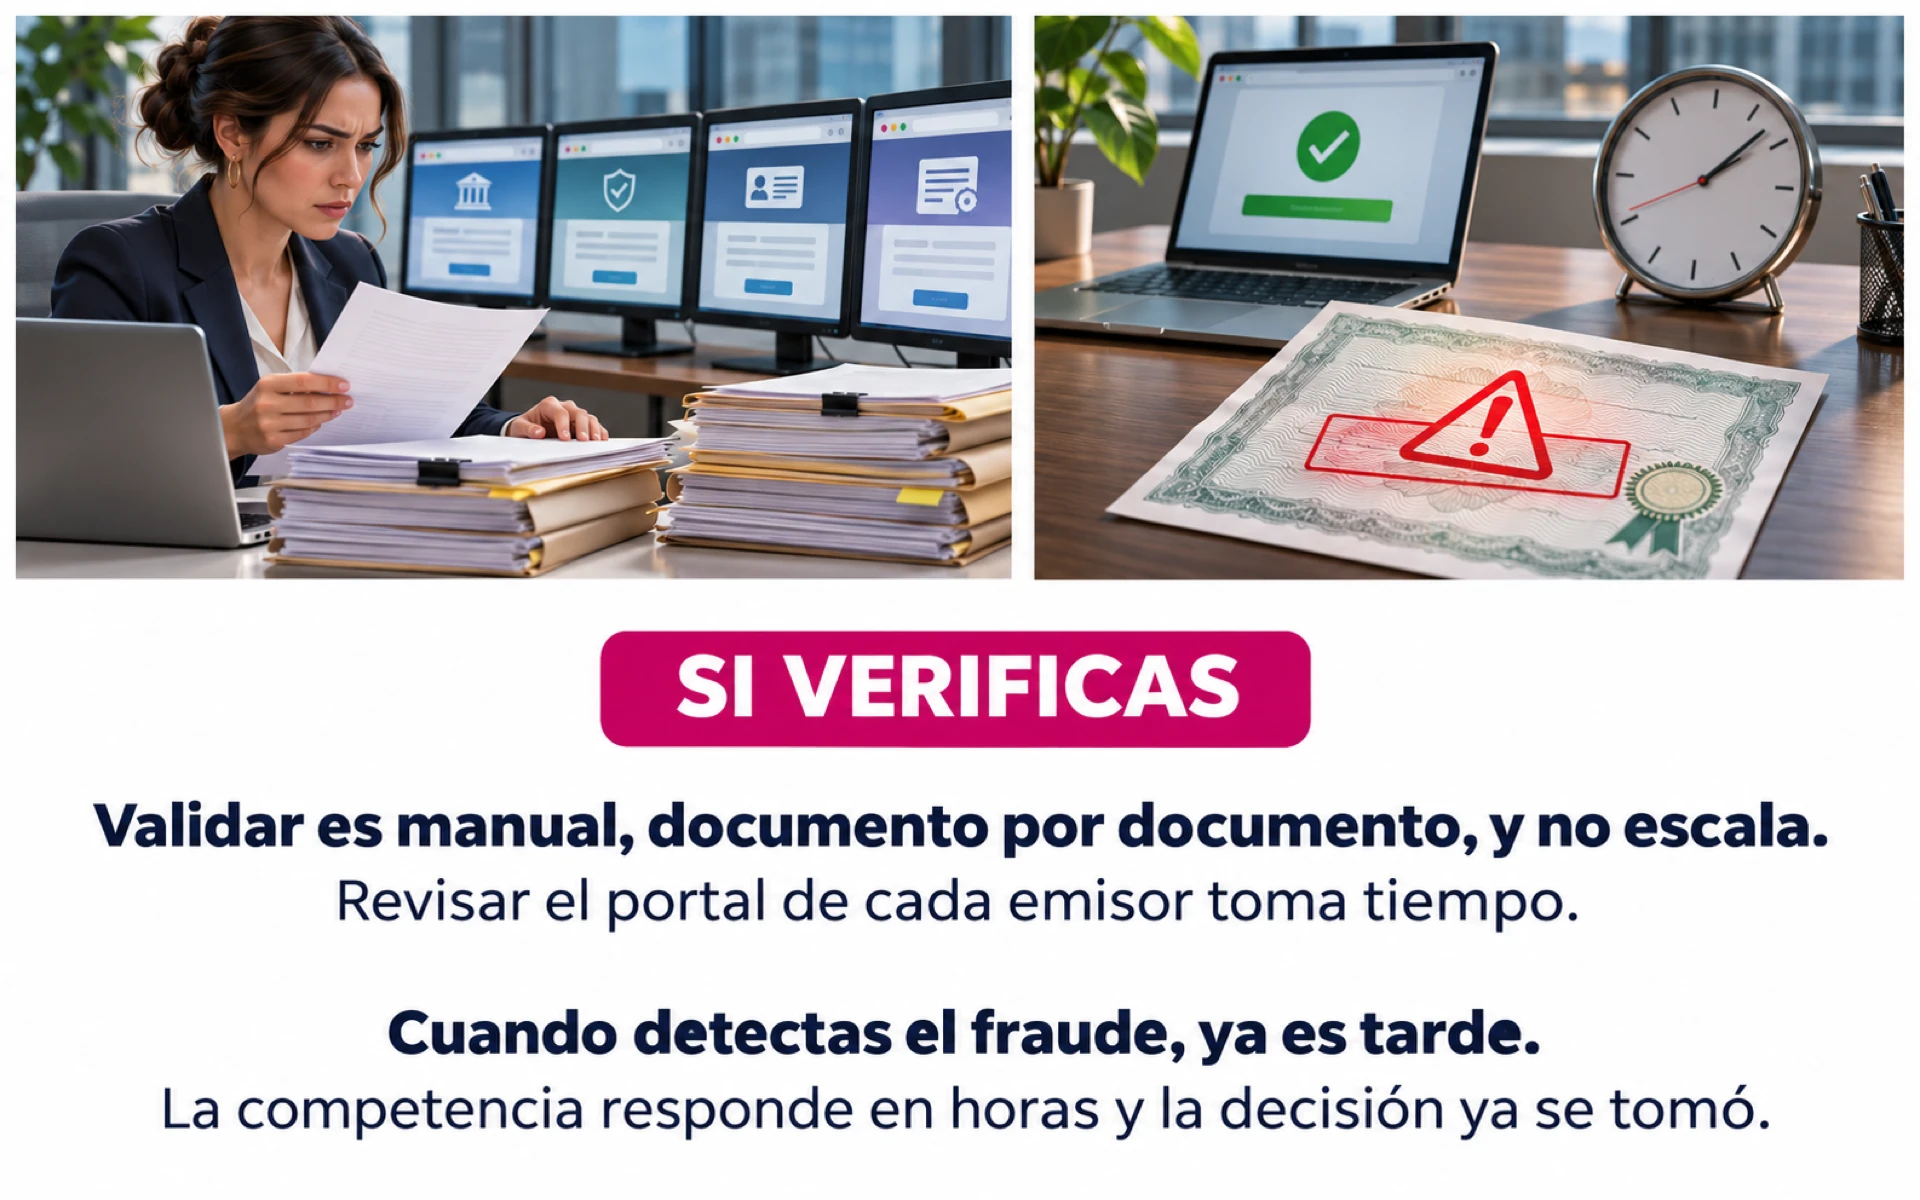
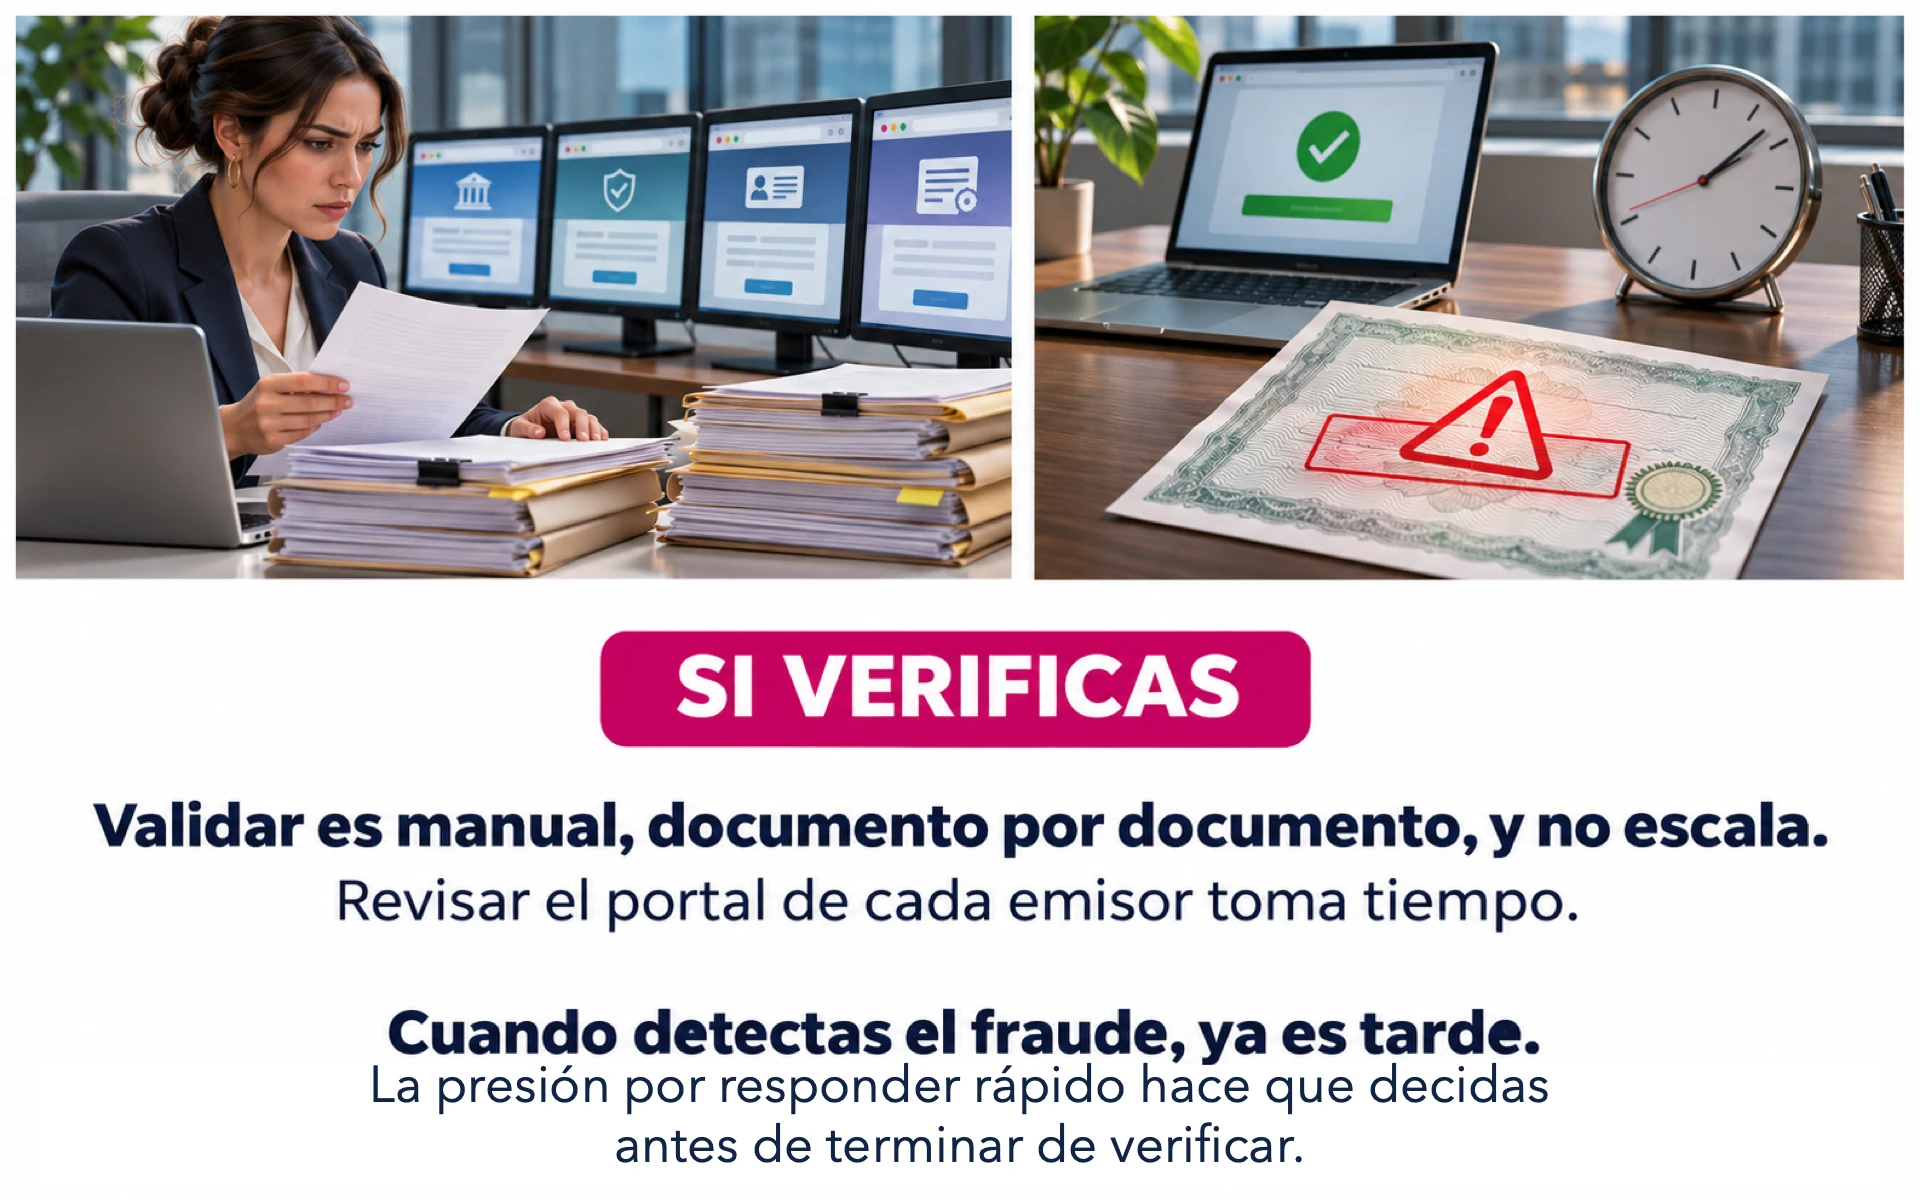
ajuste en texto de imagen del problema si verificas

Changed region(s): [[0.0938, 0.8942, 0.9375, 0.9867]]

diff --git a/src/app/page.tsx b/src/app/page.tsx
@@ -53,7 +53,7 @@ export default function Home() {
         </div>
         <div className={s.pains}>
           <div className={s.pain}><Image src="/images/problema-emites.webp" alt="Si emites: tu validador le traspasa el problema a quien verifica, porque cada documento se revisa a mano, sin automatización. Y tus documentos se falsifican sin que lo sepas: tu reputación sufre antes de que te enteres." width={1920} height={1200} sizes="(max-width: 760px) 100vw, 590px" /></div>
-          <div className={s.pain}><Image src="/images/problema-verificas.webp" alt="Si verificas: validar es manual, documento por documento, y no escala, porque revisar el portal de cada emisor toma tiempo. Y cuando detectas el fraude, ya es tarde: la competencia responde en horas y la decisión ya se tomó." width={1920} height={1200} sizes="(max-width: 760px) 100vw, 590px" /></div>
+          <div className={s.pain}><Image src="/images/problema-verificas.webp" alt="Si verificas: validar es manual, documento por documento, y no escala, porque revisar el portal de cada emisor toma tiempo. Y cuando detectas el fraude, ya es tarde: la presión por responder rápido hace que decidas antes de terminar de verificar." width={1920} height={1200} sizes="(max-width: 760px) 100vw, 590px" /></div>
         </div>
       </section>
 
